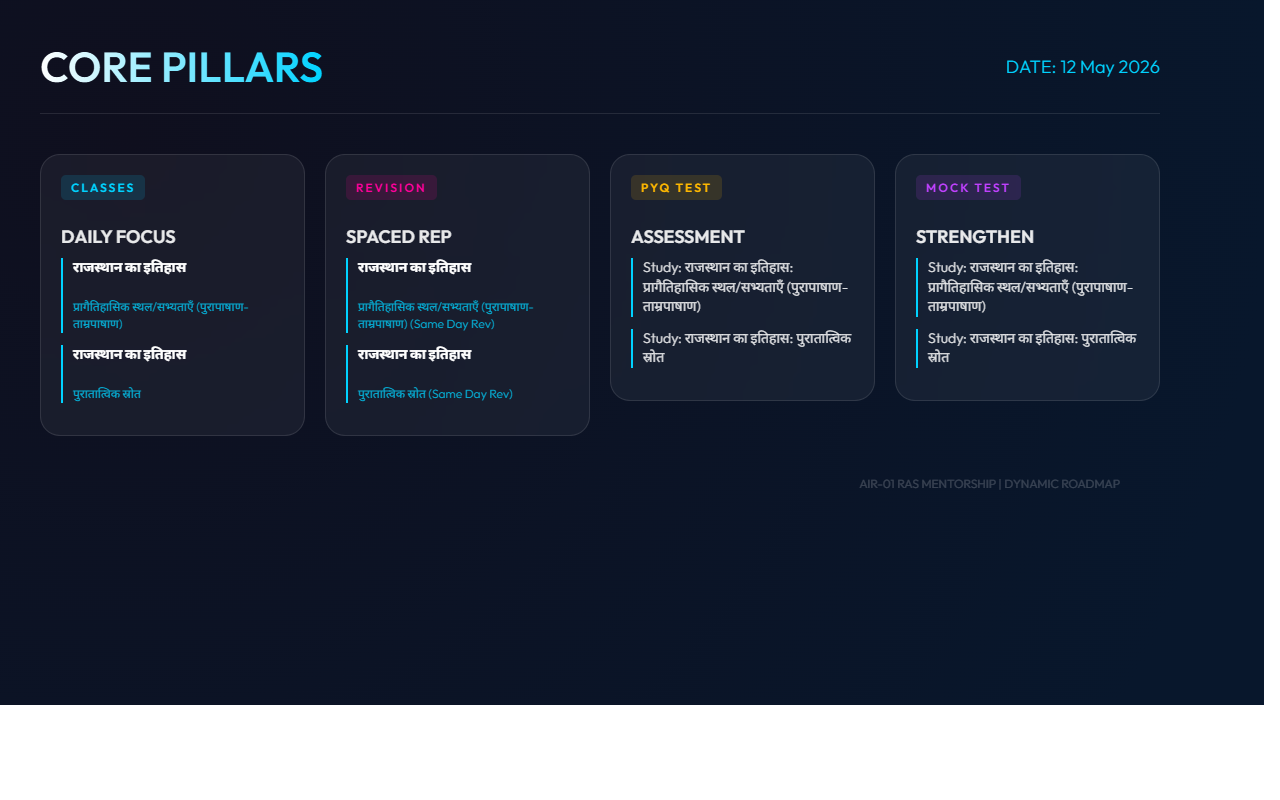
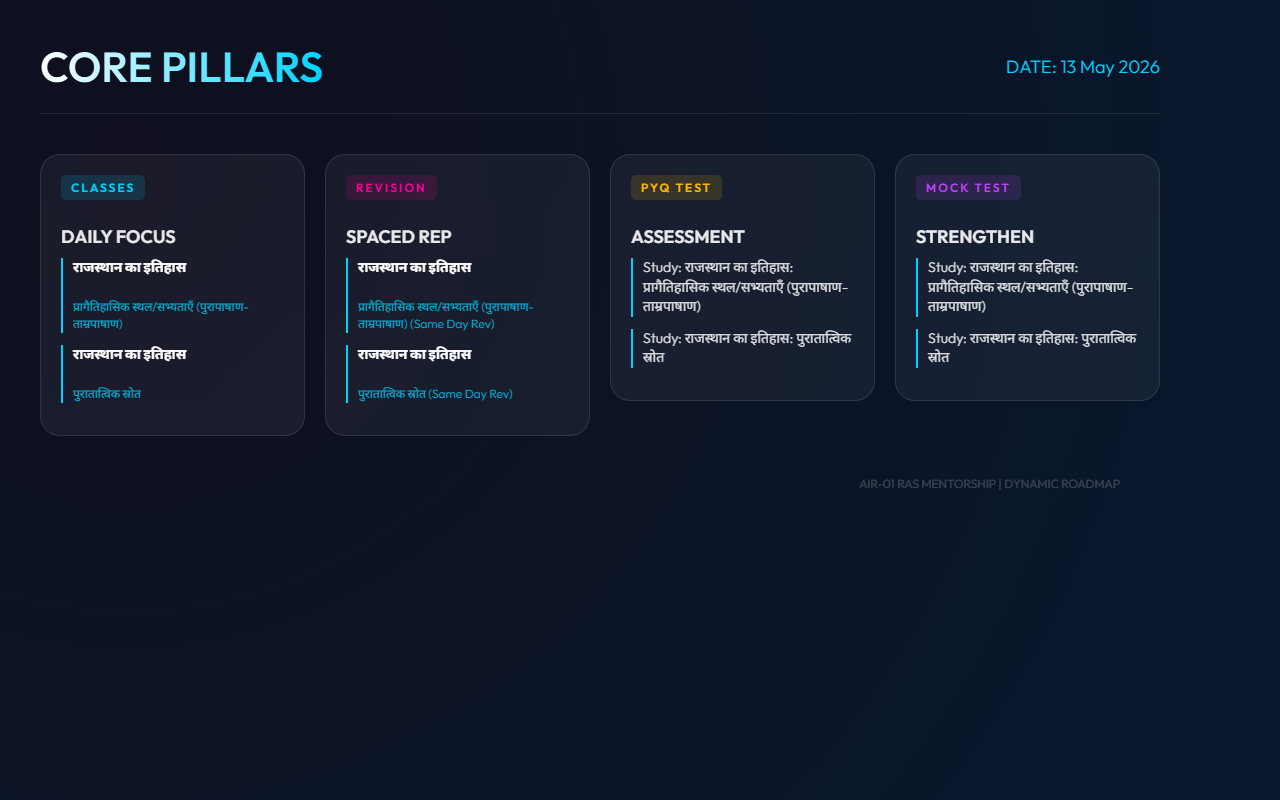
Final Secure Setup: R-Drive, Weekly Roadmap, and Fixes

Changed region(s): [[0.0, 0.0, 1.0, 1.0], [0.7812, 0.0625, 0.8438, 0.0938]]

diff --git a/adaptive_logic.py b/adaptive_logic.py
@@ -10,16 +10,14 @@ DOWNLOAD_URL = f"https://docs.google.com/spreadsheets/d/{SHEET_ID}/export?format
 def get_tracker_path():
     target_path = os.path.join("data", "Master_Tracker_Live.xlsx")
     os.makedirs("data", exist_ok=True)
-    print("DEBUG: Cloud Sync -> Downloading latest from Google Drive...")
     try:
         r = requests.get(DOWNLOAD_URL, timeout=15)
         if r.status_code == 200:
             with open(target_path, "wb") as f:
                 f.write(r.content)
-            print("DEBUG: Download Success!")
             return target_path
     except:
-        print("DEBUG: Download Failed. Using local fallback.")
+        pass
     return target_path
 
 def get_adaptive_tasks():
@@ -29,56 +27,47 @@ def get_adaptive_tasks():
     sheet_names = wb.sheetnames
     
     # 1. Main Sheet
-    main_sheet_name = next((s for s in ['Master Tracker', 'Master Tracker'] if s in sheet_names), sheet_names[0])
-    sheet = wb[main_sheet_name]
-    
-    header_row = 3
-    all_headers = list(sheet.iter_rows(min_row=header_row, max_row=header_row, values_only=True))
-    if not all_headers: return [], []
-    headers = [str(c).lower().strip() if c else "" for c in all_headers[0]]
-    
-    col_map = {'section': 0, 'topic': 1, 'Action: 13}
-    for i, h in enumerate(headers):
-        if 'विषय' in h: col_map['section'] = i
-        if 'topic' in h: col_map['topic'] = i
-        if 'Action' in h: col_map['action] = i
-
+    main_sheet = next((s for s in ['📋 Master Tracker', 'Master Tracker'] if s in sheet_names), sheet_names[0])
+    ws = wb[main_sheet]
     classes_list, revisions = [], []
-    print("-" * 50)
-    print(f"MASTER DEBUG: Scanning rows in {main_sheet_name}...")
+    for row in ws.iter_rows(min_row=4, max_row=200, values_only=True):
+        if not row or len(row) < 14: continue
+        if row[1] and str(row[13]).strip().lower() != "done" and len(classes_list) < 2:
+            classes_list.append({'subject': str(row[0]), 'topic': str(row[1])})
+            revisions.append({'subject': str(row[0]), 'topic': f"{row[1]} (Same Day Rev)"})
 
-    for row in sheet.iter_rows(min_row=4, max_row=200, values_only=True):
-        if not row: continue
-        topic = str(row[col_map['topic']]).strip() if col_map['topic'] < len(row) and row[col_map['topic']] else ""
-        action = str(row[col_map['action]]).strip().lower() if col_map['action'] < len(row) and row[col_map['Action']] else ""
-        section = str(row[col_map['section']]).strip() if col_map['section'] < len(row) and row[col_map['section']] else ""
-        
-        if topic and action != "done" and len(classes_list) < 2:
-            print(f"Row: {topic[:20]}... -> [PICKED]")
-            classes_list.append({'subject': section, 'topic': topic})
-            revisions.append({'subject': section, 'topic': f"{topic} (Same Day Rev)"})
-
-    # 2. Revision Planner
-    if 'Revision Planner' in sheet_names:
-        rev_sheet = wb['Revision Planner']
-        for row in rev_sheet.iter_rows(min_row=2, max_row=200, values_only=True):
-            if not row or len(row) < 2: continue
-            sub = str(row[0]).strip() if row[0] else "Revision"
-            top = str(row[1]).strip() if row[1] else ""
-            if not top: continue
+    # 2. Smart Revision Search
+    rev_sheet_name = next((s for s in sheet_names if 'revision' in s.lower()), None)
+    if rev_sheet_name:
+        # Avoid printing sheet name directly if it has emojis
+        print(f"DEBUG: Found Revision Sheet.")
+        rev_ws = wb[rev_sheet_name]
+        for row in rev_ws.iter_rows(min_row=4, max_row=200, values_only=True):
+            if not row or len(row) < 5: continue
+            sub, top = str(row[0]), str(row[1])
+            if not top or top == "None": continue
             
-            for cell_val in row[2:]:
-                if isinstance(cell_val, datetime) and cell_val.date() == today:
-                    revisions.append({'subject': sub, 'topic': f"{top} (Rotation)"})
-                    break
+            for d_idx in [3, 5, 7, 9, 11]:
+                if d_idx >= len(row): continue
+                raw_val = row[d_idx]
+                parsed_date = None
+                if isinstance(raw_val, datetime): parsed_date = raw_val.date()
+                elif isinstance(raw_val, str) and "/" in raw_val:
+                    for fmt in ["%d/%m/%Y", "%m/%d/%Y"]:
+                        try:
+                            parsed_date = datetime.strptime(raw_val.strip(), fmt).date()
+                            break
+                        except: pass
+                
+                if parsed_date == today:
+                    done_val = str(row[d_idx+1]).strip().lower() if d_idx+1 < len(row) else ""
+                    if done_val != "done":
+                        label = f"R{(d_idx-1)//2}" if d_idx < 11 else "Final"
+                        revisions.append({'subject': sub, 'topic': f"{top} ({label})"})
 
-    print("-" * 50)
-    
-    # Prepare Image Data
     image_data = []
     for idx, c in enumerate(classes_list):
         image_data.append({'sr': idx+1, 'task': f'CLASSES {idx+1}', 'subject': c['subject'], 'topic': c['topic']})
-    
     image_data.append({'sr': len(image_data)+1, 'task': 'REVISION', 'revisions': revisions})
     image_data.append({'sr': len(image_data)+1, 'task': 'Analysis', 'subject': 'PYQ Review', 'topic': 'Previous Year Questions Analysis'})
     

diff --git a/automation_main.py b/automation_main.py
@@ -25,7 +25,7 @@ def run_automation():
         print(f"Generating PYQ Excel files for {len(classes_list)} topics...")
         pyq_files = []
         for task in classes_list:
-            pyq_file = excel_generator.generate_pyq_excel(task['topic'])
+            pyq_file = excel_generator.generate_topic_excel(task['topic'])
             if pyq_file:
                 pyq_files.append(pyq_file)
         